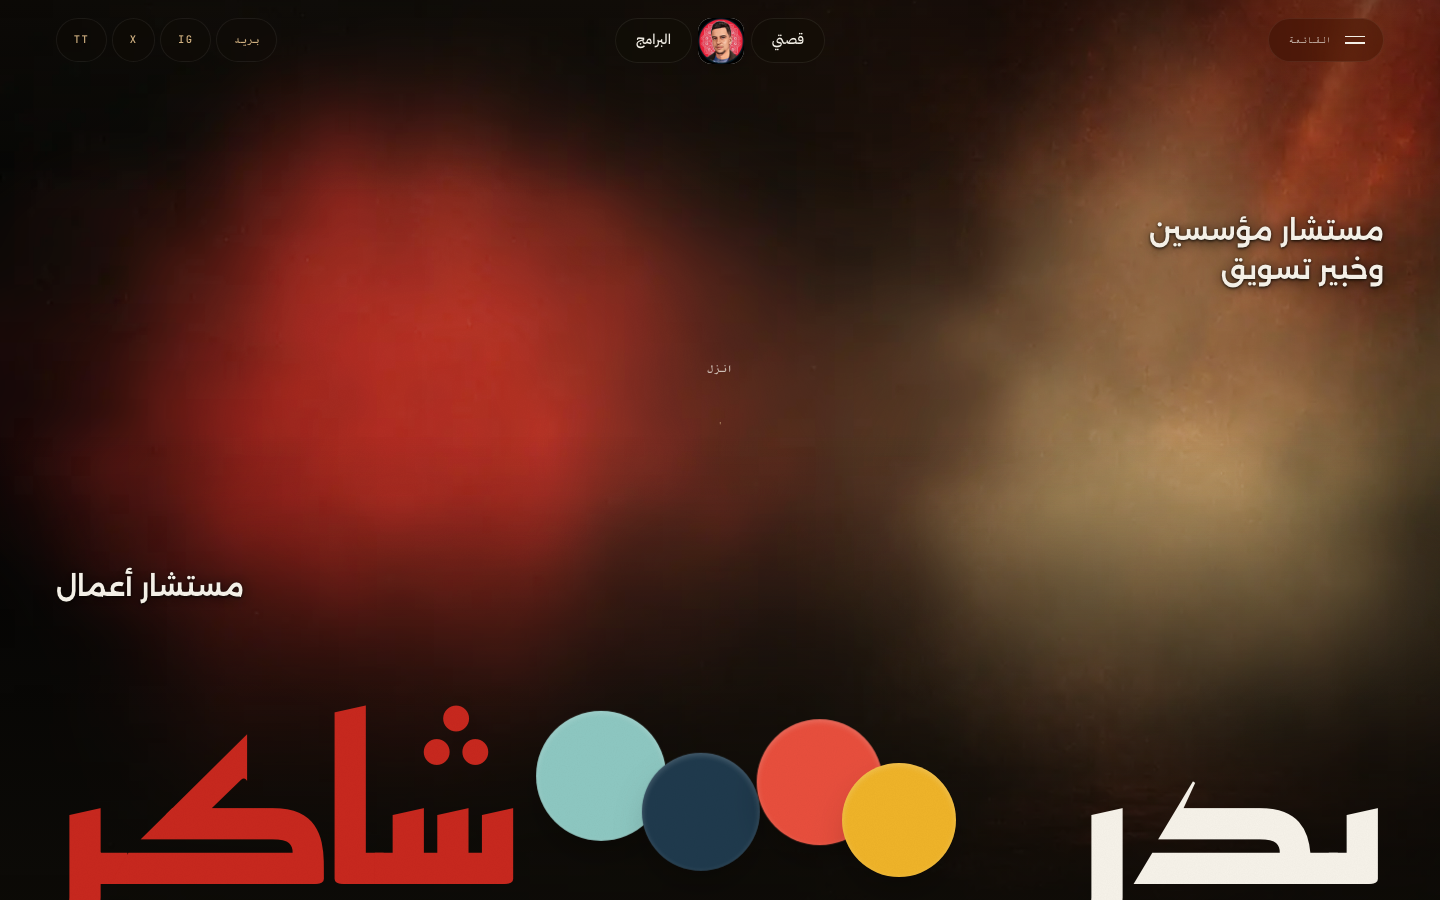
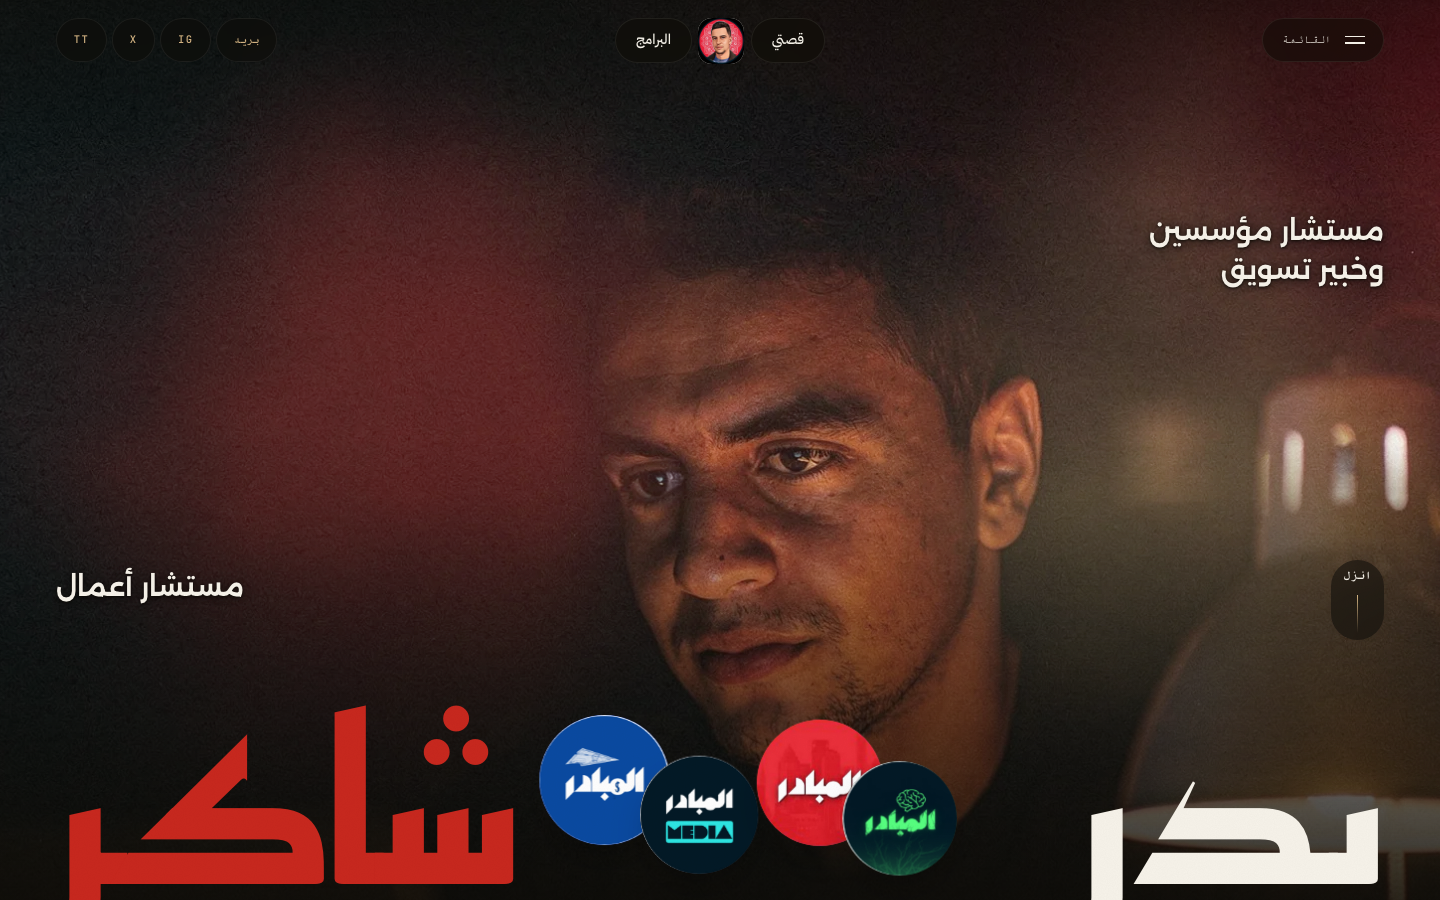
Cinematic photo set: hero, why-me (RTL-mirrored), story hero, 3D footer card
AI-generated from the owner's reference portrait (PHOTO-PROMPTS.md set).
Hero atmosphere dimmed to 0.4 over the real photo; scroll cue relocated to
the start corner with frosted backing (was landing on the subject's face);
contrast re-measured over all new imagery — passing.

diff --git a/src/styles/home.css b/src/styles/home.css
@@ -20,6 +20,7 @@
   width: 100%;
   height: 100%;
   object-fit: cover;
+  object-position: center 22%;
   transform: scale(1.06);
 }
 .hero__atmosphere {
@@ -28,7 +29,7 @@
   z-index: 1;
   pointer-events: none;
   mix-blend-mode: screen;
-  opacity: 0.85;
+  opacity: 0.4; /* breathing warm light over the real photo, not a wash */
   -webkit-mask-image: linear-gradient(to bottom, black 0%, black 55%, transparent 95%);
   mask-image: linear-gradient(to bottom, black 0%, black 55%, transparent 95%);
 }
@@ -88,15 +89,19 @@
 
 .hero__scrollcue {
   position: absolute;
-  bottom: clamp(9rem, 26vh, 16rem);
-  left: 50%;
-  transform: translateX(-50%);
+  bottom: 1.2rem;
+  inset-inline-start: var(--gutter);
   z-index: 4;
   display: flex;
   flex-direction: column;
   align-items: center;
   gap: 0.6rem;
-  color: rgba(247, 243, 234, 0.75);
+  color: var(--cream);
+  padding: 0.55em 1em;
+  border-radius: 999px;
+  background: rgba(13, 11, 7, 0.55);
+  backdrop-filter: blur(6px);
+  -webkit-backdrop-filter: blur(6px);
 }
 .hero__scrollcue::after {
   content: '';
@@ -623,30 +628,43 @@
 /* ── 09 · WHY ME — full-bleed photo statement ── */
 .whyme {
   position: relative;
-  background:
-    linear-gradient(to top, rgba(13, 11, 7, 0.92) 0%, rgba(13, 11, 7, 0.55) 45%, rgba(13, 11, 7, 0.35) 100%),
-    url('/assets/book-interior.webp') center 30% / cover no-repeat,
-    var(--ink);
+  background: var(--ink);
   color: var(--cream);
   min-height: 100svh;
+  overflow: clip;
 }
-/* AA scrim: the copy column needs ~0.88 ink over the bright photo pages */
+.whyme__backdrop {
+  position: absolute;
+  inset: 0;
+  z-index: 0;
+}
+.whyme__backdrop img {
+  width: 100%;
+  height: 100%;
+  object-fit: cover;
+  object-position: center 20%;
+}
+/* the subject stands opposite the copy column in both directions */
+[dir='rtl'] .whyme__backdrop img { transform: scaleX(-1); }
+/* AA scrim over the copy column */
 .whyme::before {
   content: '';
   position: absolute;
   inset: 0;
-  z-index: 0;
+  z-index: 1;
   pointer-events: none;
-  background: linear-gradient(
-    var(--side-grad, 90deg),
-    rgba(13, 11, 7, 0.9) 0%,
-    rgba(13, 11, 7, 0.85) 52%,
-    rgba(13, 11, 7, 0.55) 78%,
-    rgba(13, 11, 7, 0.22) 100%
-  );
+  background:
+    linear-gradient(to top, rgba(13, 11, 7, 0.85) 0%, rgba(13, 11, 7, 0.3) 40%, rgba(13, 11, 7, 0.15) 100%),
+    linear-gradient(
+      var(--side-grad, 90deg),
+      rgba(13, 11, 7, 0.88) 0%,
+      rgba(13, 11, 7, 0.78) 52%,
+      rgba(13, 11, 7, 0.4) 78%,
+      rgba(13, 11, 7, 0.12) 100%
+    );
 }
 [dir='rtl'] .whyme::before { --side-grad: 270deg; }
-.whyme .wrap { position: relative; z-index: 1; }
+.whyme .wrap { position: relative; z-index: 2; }
 .whyme__intro {
   font-family: var(--font-statement);
   font-weight: 500;

diff --git a/src/styles/shell.css b/src/styles/shell.css
@@ -400,23 +400,21 @@ body:has(:focus-visible) .cursor { display: none; }
   max-width: 33rem;
 }
 .outro__ctas { display: flex; gap: 1rem; flex-wrap: wrap; justify-content: center; }
+/* stylized 3D portrait card (mock frame 11) */
 .outro__portrait {
-  width: clamp(5.5rem, 9vw, 8rem);
-  aspect-ratio: 1;
-  border-radius: 50%;
+  width: clamp(7rem, 11vw, 10rem);
+  aspect-ratio: 3 / 4;
+  border-radius: 16px;
   overflow: clip;
-  box-shadow: 0 22px 60px rgba(200, 40, 30, 0.35), 0 8px 24px rgba(0, 0, 0, 0.45);
-  position: relative;
+  border: 1px solid rgba(212, 180, 131, 0.35);
+  box-shadow: 0 26px 60px rgba(200, 40, 30, 0.3), 0 10px 28px rgba(0, 0, 0, 0.5);
+  transform: rotate(-2.5deg);
 }
-.outro__portrait::after {
-  content: '';
-  position: absolute;
-  inset: -7%;
-  border: 1px solid rgba(212, 180, 131, 0.3);
-  border-radius: 50%;
-  animation: spin 60s linear infinite;
+.outro__portrait img {
+  width: 100%;
+  height: 100%;
+  object-fit: cover;
 }
-@keyframes spin { to { transform: rotate(360deg); } }
 
 /* giant name slab at the very bottom, clipped by the page edge */
 .outro__name {

diff --git a/src/styles/inner.css b/src/styles/inner.css
@@ -20,6 +20,28 @@
   .pagehero, .pagehero--tall { min-height: 0; padding-block: 6rem 2.6rem; }
   .pagehero__head { font-size: clamp(2.1rem, 10vw, 2.8rem); }
 }
+.pagehero__backdrop {
+  position: absolute;
+  inset: 0;
+  z-index: 0;
+}
+.pagehero__backdrop img {
+  width: 100%;
+  height: 100%;
+  object-fit: cover;
+  object-position: center 30%;
+}
+.pagehero--photo::before {
+  content: '';
+  position: absolute;
+  inset: 0;
+  z-index: 1;
+  pointer-events: none;
+  background:
+    linear-gradient(to top, rgba(13, 11, 7, 0.92) 0%, rgba(13, 11, 7, 0.45) 45%, rgba(13, 11, 7, 0.25) 100%),
+    radial-gradient(ellipse 70% 60% at 85% 0%, rgba(200, 40, 30, 0.18), transparent 60%);
+}
+.pagehero .wrap, .pagehero__ghost { position: relative; z-index: 2; }
 .pagehero__overline { color: var(--brass-pale); margin-bottom: clamp(1rem, 2.5vh, 1.6rem); display: inline-flex; align-items: center; gap: 0.8rem; }
 .pagehero__overline::before { content: ''; width: 34px; height: 1px; background: currentColor; }
 .pagehero__head {

diff --git a/SELF-AUDIT.md b/SELF-AUDIT.md
@@ -59,12 +59,12 @@ Book/Course/Service/ProfilePage/CollectionPage per page; full OG/Twitter.
 
 | Item | State |
 |---|---|
-| **Real cinematic photo of Badr** | Missing — hero/why-me use brand-texture photos (`outro-backdrop`, `book-interior`). Drop-in slot documented in README. This is the single biggest gap to the mock. |
+| **Photography** | Now in place: AI-generated set (hero at-desk, why-me profile, story silhouette, 3D footer render) produced from the owner's reference portrait via PHOTO-PROMPTS.md. Likeness approved by owner in-session; a real shoot can swap in at the same paths anytime. Contrast re-measured over the real images — all pass (scroll cue moved + backed after the new photo exposed it). |
 | **Articles archive** | No source provided. Index ships 6 unlinked "coming soon" topic cards (placeholder titles flagged OWNER-TODO) + honest "archive in transit" note routing to Almobadir. No article bodies were invented; the article template is the card/prose system ready for real content. |
 | **Program 1/2 curriculum + pricing** | Not provided. Pages frame the promise + 3 pillar questions, with "details on request" → email CTA. Course JSON-LD has no invented price. |
 | **Story facts** | Written ONLY from approved facts (degrees, 10 yrs, 200+ sessions, book, Almobadir). No employers/dates/cities invented — owner should fact-check tone and add specifics. |
 | **Per-page OG cards** | All pages use the existing site-wide og-ar/og-en JPGs; per-page 1200×630 cards are an owner-asset task. |
-| **3D/illustrated footer portrait + animated book illustration** | Footer uses the illustrated avatar; book is a CSS-3D object with the cherry cover texture. Lottie/Spline upgrades await owner assets. |
+| **Animated book illustration** | The book is a CSS-3D object with the cherry cover texture; a Lottie/Spline upgrade remains optional. Footer now uses the 3D portrait card. |
 | **Needs manual check on real devices** | Safari `backdrop-filter` on pills/menu, `mix-blend-mode: difference` cursor, WebGL hero on low-power devices (it is reduced-motion-gated but not battery-gated), real-device FPS/LCP. |
 | **Statement section pin** | Uses ScrollTrigger pin — verified in Chromium; check iOS Safari rubber-banding manually. |
 | **Bilingual ghost headline** | The EN line on the AR services hub (and inverse) is **intentional** per mock frame 4 — flagged by one auditor as "untranslated copy"; keeping per art direction. |
@@ -74,9 +74,9 @@ Book/Course/Service/ProfilePage/CollectionPage per page; full OG/Twitter.
 Side-by-side with juanmora.co: matching interaction density (cursor labels, magnetic, draggable
 physics shapes, pin, letter/word reveals, loader, hide-on-scroll pill nav), a stronger
 typographic system (Reem Kufi/Fraunces editorial spine + Alexandria/Bricolage statement
-counterpoint vs. one geometric sans), and the same full-bleed giant-name composition. The gap
-that remains is photographic: juanmora's hero is a real cinematic photo of its subject; ours
-stands on brand textures until the owner supplies the shot.
+counterpoint vs. one geometric sans), and the same full-bleed giant-name composition. The photographic gap is closed: the hero, why-me, story, and footer
+now carry cinematic imagery of Badr (AI-generated from his reference portrait, swappable
+for a real shoot at the same file paths).
 
 ### Addendum — channel-logo draggables (post-v1 feedback)
 The four hero circles are the real Almobadir channel logos (main, فلوسك, MEDIA,

diff --git a/README.md b/README.md
@@ -61,12 +61,13 @@ No-JS: reveal-hiding is scoped under `html.js`, so content is fully visible with
 
 | Asset | Drop at | Currently |
 |---|---|---|
-| Real cinematic photo of Badr (hero) | `public/assets/` + swap `<img>` in `components/HomePage.astro` hero (marked `OWNER ASSET`) | `outro-backdrop.webp` texture stands in |
-| Why-me full-bleed photo | `styles/home.css` → `.whyme` background | `book-interior.webp` |
+| Hero photo of Badr | `public/assets/hero-photo.webp` | AI-generated from owner's reference portrait (swap with a real shoot anytime) |
+| Why-me full-bleed photo | `public/assets/whyme-photo.webp` (mirrored automatically in RTL) | AI-generated profile shot |
+| Story hero photo | `public/assets/story-hero.webp` | AI-generated silhouette |
 | Articles archive (titles/slugs/bodies/source) | `src/data/copy/inner.js` → `articleTeasers` (marked `OWNER-TODO`) | 6 unlinked "coming soon" topic cards |
 | Program 1/2 curriculum + pricing + enroll flow | `src/data/copy/inner.js` → `programs` (marked `OWNER-TODO`) | "details on request" → email CTA |
 | Per-page OG cards (1200×630) | `public/assets/og-*.jpg`, wire in each page's `ogImage` prop | site-wide `og-ar.jpg` / `og-en.jpg` |
-| 3D/illustrated footer portrait | `components/Footer.astro` | illustrated avatar |
+| 3D/illustrated footer portrait | `public/assets/portrait-3d.webp` | AI-generated Pixar-style render |
 
 ## Structure
 
